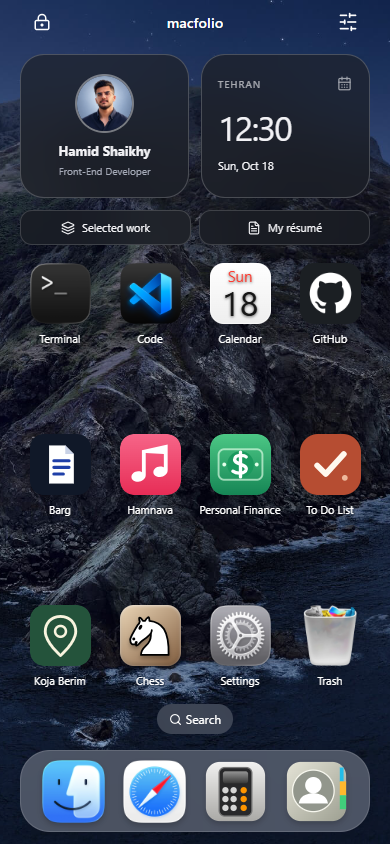
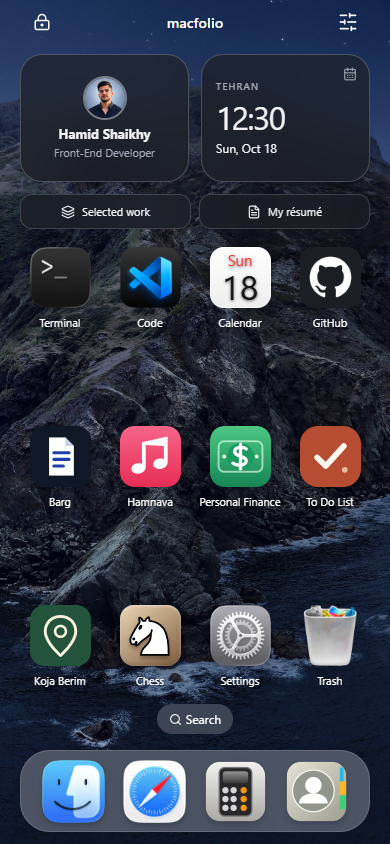
Keep mobile widgets readable across browser and installed layouts

diff --git a/src/mobile-viewport.css b/src/mobile-viewport.css
@@ -55,6 +55,26 @@
     align-content: space-between;
   }
   .ios-home-scroll .ios-search { flex-shrink: 0; }
+  /* Widget typography follows phone width, never browser-toolbar height. The
+     cards can grow with their contents instead of clipping the date or photo. */
+  .ios-home .ios-widgets {
+    grid-template-columns: repeat(2, minmax(0, 1fr));
+    gap: 12px;
+    margin-bottom: 12px;
+    -webkit-text-size-adjust: 100%;
+    text-size-adjust: 100%;
+  }
+  .ios-widgets > button { height: auto; min-height: 128px; min-width: 0; border-radius: 22px; }
+  .ios-widgets > button > :is(img, span, strong, small) { flex-shrink: 0; }
+  .ios-profile-widget { padding: 12px 10px; }
+  .ios-profile-widget img { width: 44px; height: 44px; margin: 0 0 6px; }
+  .ios-profile-widget strong { font-size: 13px; line-height: 1.25; }
+  .ios-profile-widget > span { font-size: 11px; line-height: 1.3; margin: 4px 0 0; }
+  .ios-clock-widget { padding: 14px; justify-content: center; gap: 7px; }
+  .ios-clock-widget > span { font-size: 10px; line-height: 1.2; }
+  .ios-clock-widget > strong { font-size: 32px; line-height: 1.1; margin: 0; }
+  .ios-clock-widget > small { font-size: 12px; line-height: 1.3; }
+  .ios-clock-widget > svg { top: 12px; right: 12px; width: 14px; height: 14px; }
   .ios-app { padding-bottom: var(--mobile-content-bottom); }
   .ios-app-header { height: var(--mobile-header-height); }
   .ios-app-header > strong { min-width: 0; font-size: 12px; }
@@ -81,9 +101,8 @@
   .os-root.mobile {
     --mobile-header-height: 43px;
   }
-  .ios-widgets > button { height: 85px; }
-  .ios-profile-widget img { width: 32px; height: 32px; }
   .ios-quick-links { margin-bottom: 8px; }
+  .ios-home .ios-widgets { margin-bottom: 8px; }
   .ios-app-grid { row-gap: 7px; }
   .ios-app-grid .app-icon { width: 44px !important; height: 44px !important; }
   .ios-app-grid > button { gap: 4px; }
@@ -92,11 +111,19 @@
 
 /* Size the home content from the room left after native safe areas and Dock. */
 @container phone-home (min-height:460px) and (max-height:560px) {
-  .ios-widgets > button { height: 108px; }
   .ios-app-grid { row-gap: 13px; }
   .ios-app-grid .app-icon { width: 55px !important; height: 55px !important; }
   .ios-app-grid > button { gap: 5px; }
   .ios-app-grid > button > span { font-size: 11px; }
   .ios-quick-links { margin-bottom: 12px; }
   .ios-search { margin: 10px auto; }
+}
+
+@media (max-width:359px) {
+  .ios-widgets > button { min-height: 116px; }
+  .ios-profile-widget { padding: 10px; }
+  .ios-profile-widget img { width: 40px; height: 40px; }
+  .ios-profile-widget strong { font-size: 12px; }
+  .ios-profile-widget > span { font-size: 10px; margin-top: 3px; }
+  .ios-clock-widget > strong { font-size: 30px; }
 }

diff --git a/src/shell-refinements.css b/src/shell-refinements.css
@@ -44,8 +44,6 @@
 .ios-quick-links button { flex:1; min-width:0; display:flex; align-items:center; justify-content:center; gap:7px; padding:9px 5px; border-radius:12px; background:var(--glass); color:var(--text); font-size:11px; backdrop-filter:blur(25px); border:1px solid #ffffff28; }
 @media (max-width:767px), (pointer:coarse) and (max-width:1024px) and (max-height:500px) {
   .ios-home { padding:10px 20px calc(26px + env(safe-area-inset-bottom)); overflow:auto; }
-  .ios-widgets { margin-bottom:12px; gap:12px; }
-  .ios-widgets > button { height:144px; }
   .ios-app-grid { row-gap:20px; }
   .ios-search { margin:16px auto; }
   .ios-dock { margin-top:auto; min-height:82px; height:82px; }
@@ -54,17 +52,6 @@
 }
 @container mobile-viewport (max-height:700px) {
   .ios-home { padding:6px 16px 26px; }
-  .ios-widgets > button { height:85px; border-radius:19px; }
-  .ios-profile-widget { padding:5px; }
-  .ios-profile-widget img { width:36px; height:36px; margin-bottom:4px; }
-  .ios-profile-widget strong { font-size:10px; }
-  .ios-profile-widget > span { font-size:8px; margin-top:3px; }
-  .ios-clock-widget { padding:10px 12px; }
-  .ios-clock-widget > span { font-size:8px; }
-  .ios-clock-widget > strong { font-size:25px; margin:5px 0; }
-  .ios-clock-widget > small { font-size:9px; }
-  .ios-clock-widget > svg { top:12px; right:12px; width:12px; }
-  .ios-widgets { margin-bottom:9px; }
   .ios-quick-links { margin-bottom:13px; gap:8px; }
   .ios-quick-links button { padding:7px 3px; font-size:10px; }
   .ios-app-grid { row-gap:13px; column-gap:8px; }

diff --git a/docs/QA.md b/docs/QA.md
@@ -139,3 +139,9 @@ An installed app uses the complete layout viewport rather than an occasionally s
 Removed the deprecated `black-translucent` status-bar setting following [WebKit's recommendation for Home Screen apps](https://www2.webkit.org/show_bug.cgi?id=317153#c2). The browser/OS owns its native status and navigation bars; this does not promise arbitrary drawing under them or automatic fullscreen in a Safari tab. Existing Home Screen shortcuts may retain installation-time presentation settings, so reinstall the shortcut after the new deployment when checking the metadata change.
 
 Verification: 44 unit tests, TypeScript checks, a production shell build, and Chromium/WebKit mobile, keyboard, embedded app, PDF, audio and desktop regressions. The dedicated installed-mode regression uses the iPhone 11 Pro's 375×812 CSS viewport, 44/34 safe insets and a shorter 734px visual viewport, then checks keyboard resizing and full-height restoration. Additional checks cover a 375×614 Safari work area and small/rotated phones. The three README phone images were recaptured. These follow-up changes were tested in browser emulation, not on the owner's physical device; iOS 27 system-chrome behavior remains a device-verification limit.
+
+## Consistent phone widgets — 2026-10-18
+
+The owner's next device screenshots exposed a second layout issue: Home's height query reduced the card height while leaving its large-screen typography/padding in place, clipping the date in Home Screen mode. Shorter Safari windows separately reduced the portrait to 32px and profile text to 8–10px. Removed the competing widget height/typography overrides. The two cards now use width-based typography, nonshrinking portraits and intrinsic height with a shared minimum; taller text can grow the row. Their font sizes, portrait sizes and card heights stay consistent across browser and installed modes at the same phone width. The widget group explicitly uses [100% text-size adjustment](https://developer.mozilla.org/en-US/docs/Web/CSS/Reference/Properties/text-size-adjust); browser zoom is preserved.
+
+The new regression first reproduced the old small-photo failure, then passed with the fix. It checks every text/photo bound for clipping, font legibility and identical proportions at widths 320, 375, 390 and 430, including the reported 375×614 Safari area, 375×734/812 installed layouts and 44/34 safe insets. Header tests also check Back/title/full-page/Control Center separation in eight mobile apps at 320px. All 28 production Chromium/WebKit checks and 44 unit tests pass, along with TypeScript and the shell build; phone app/PDF/audio flows, Dock, keyboard, rotation and desktop regressions pass. README phone captures were refreshed. Physical-device verification remains pending.
